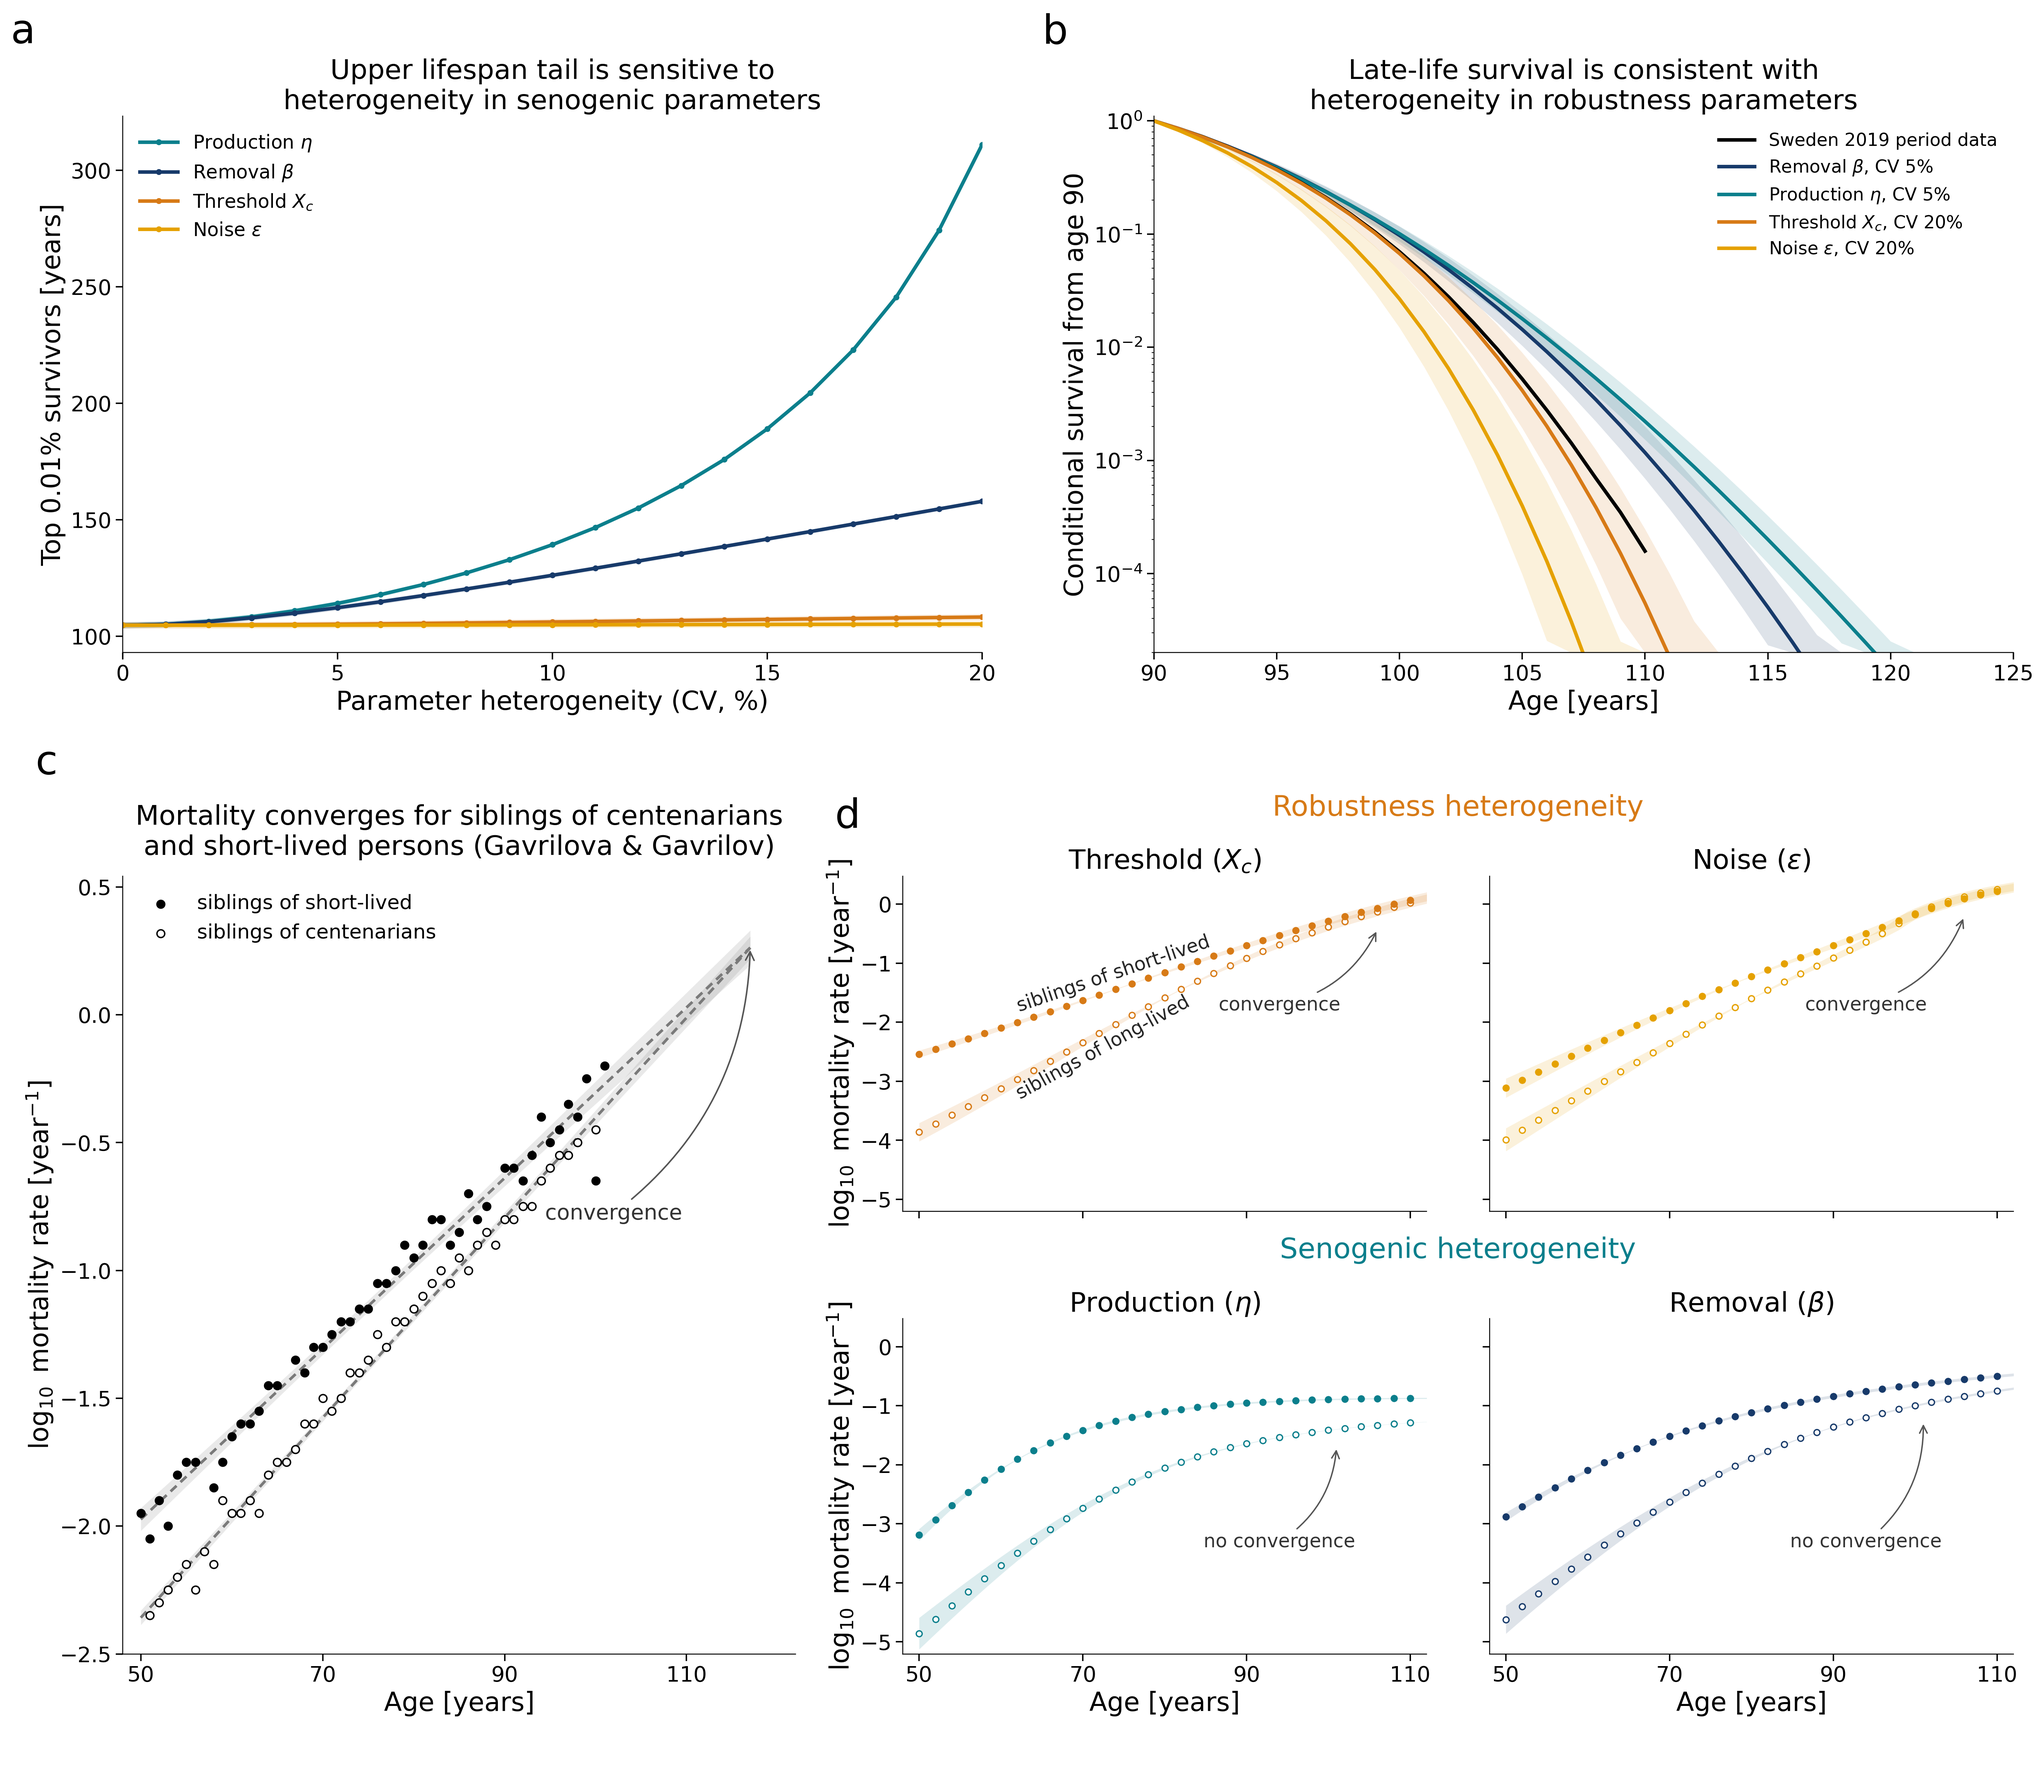
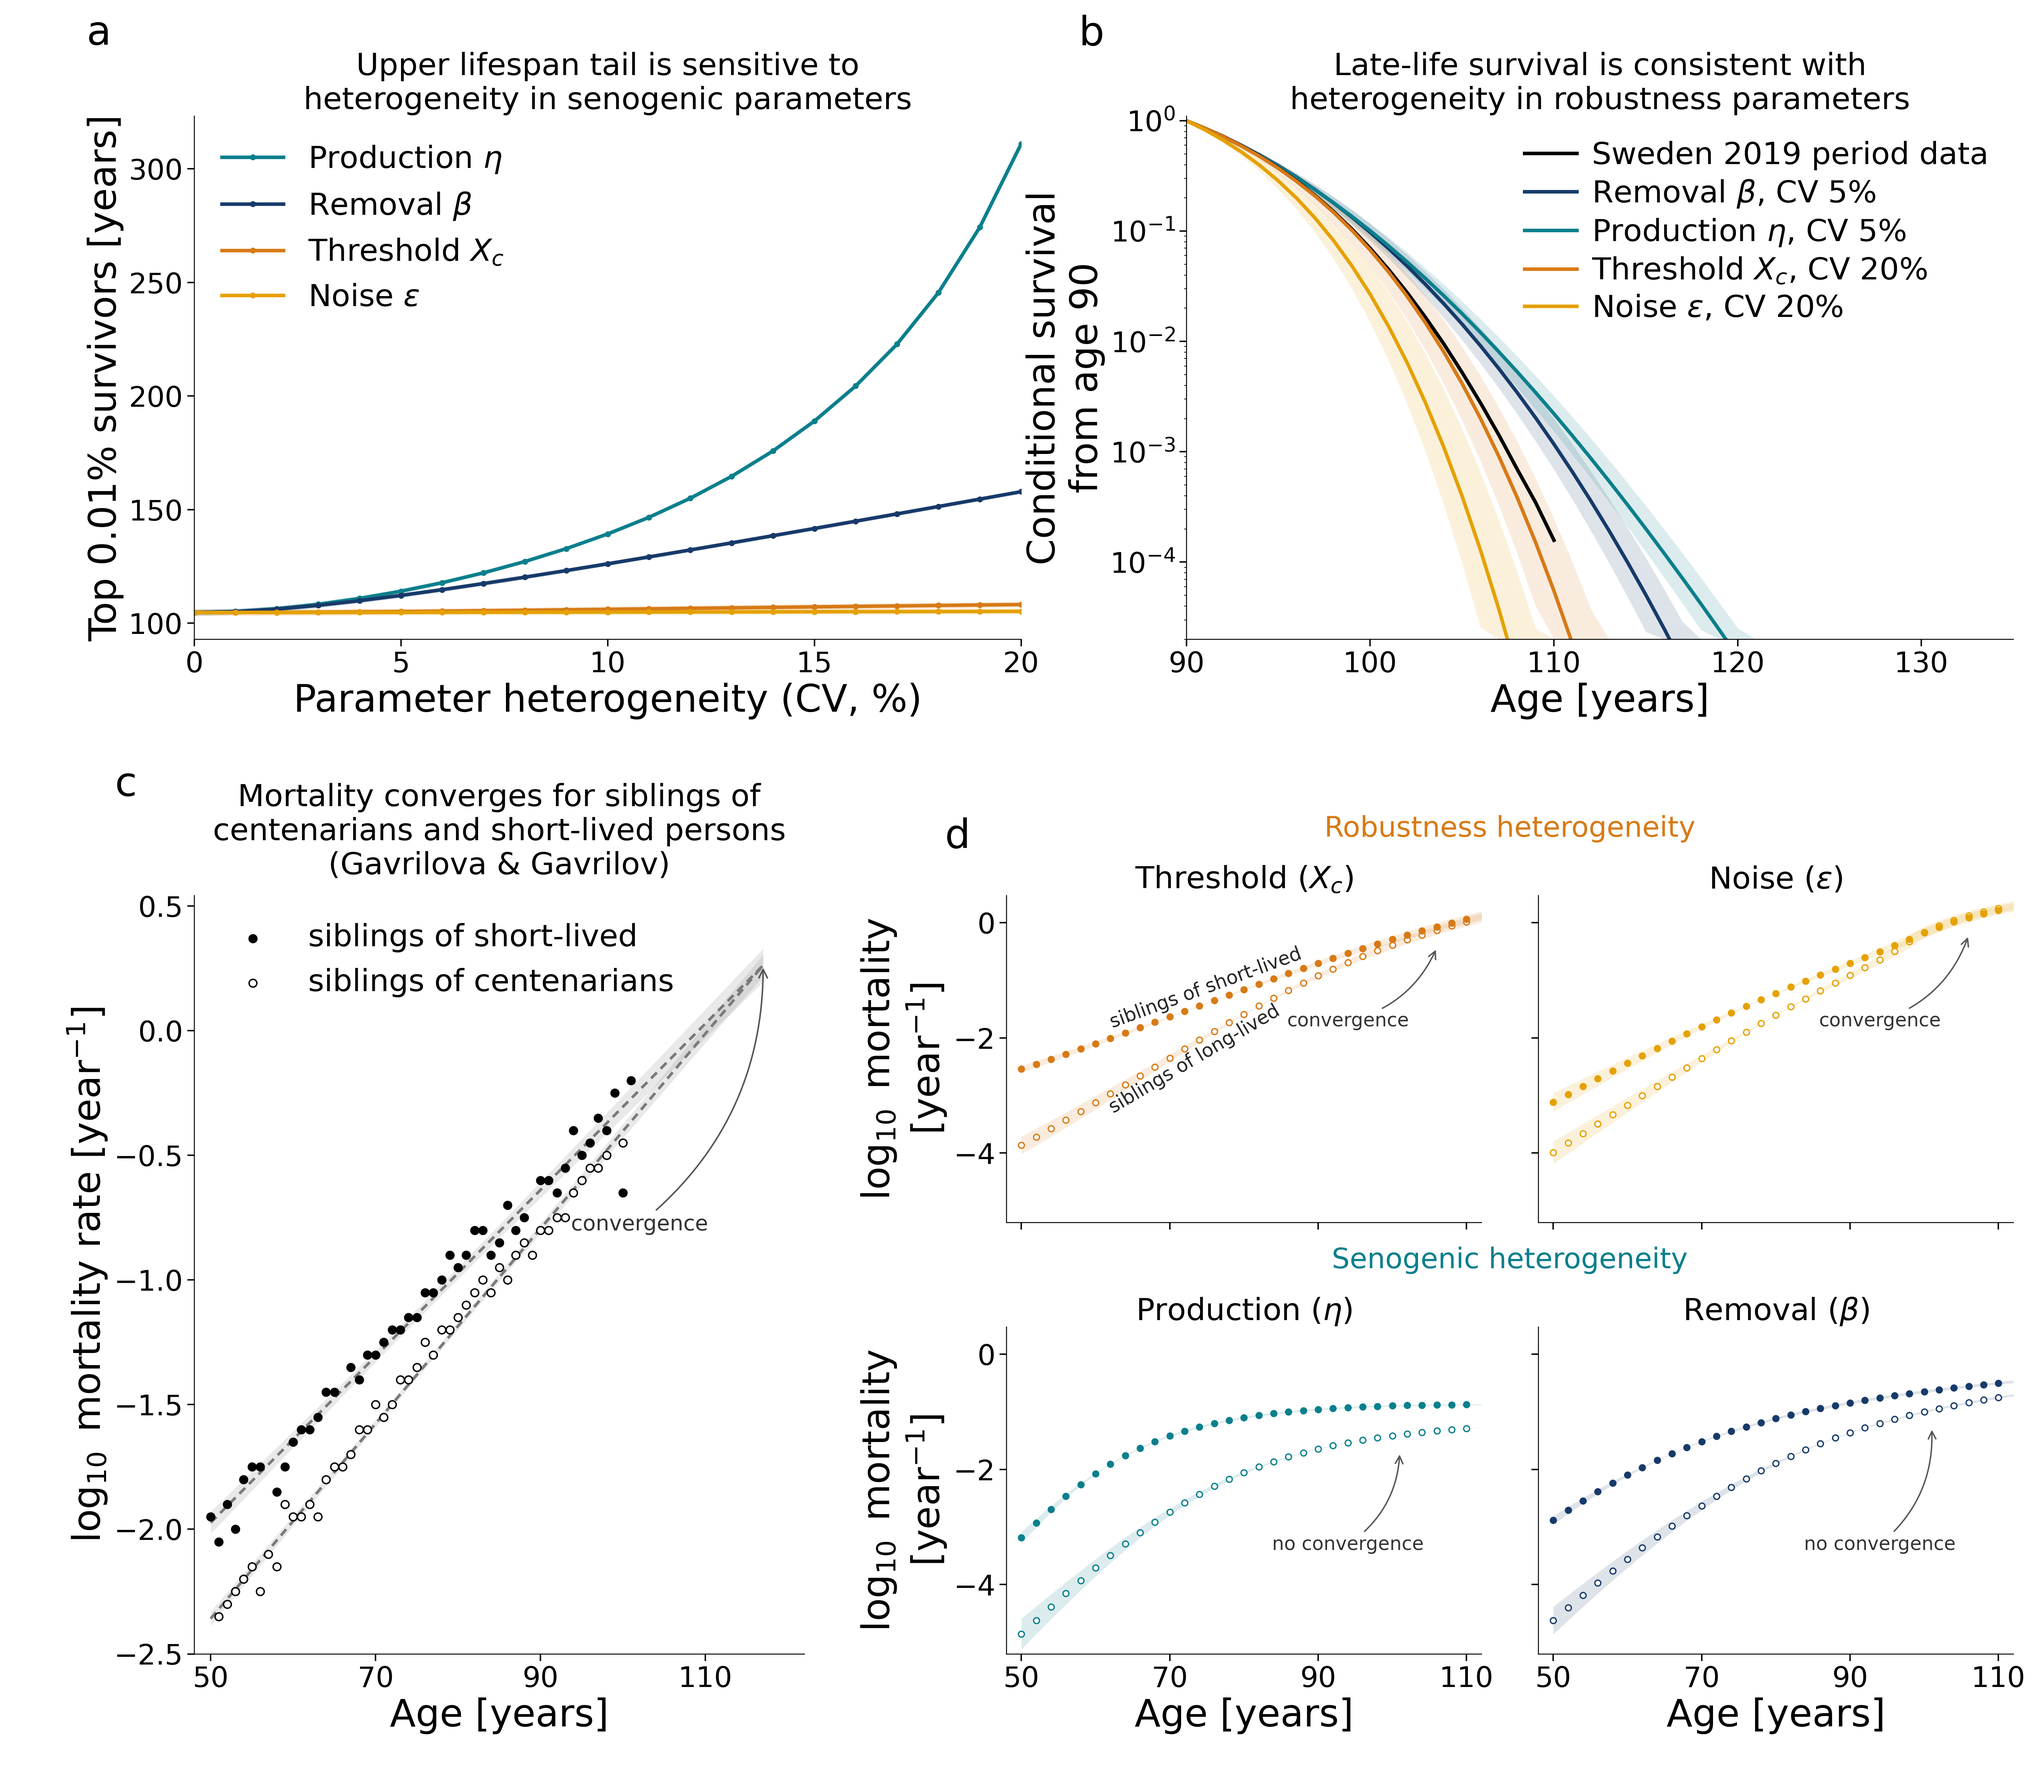
Enlarge Figure 2 typography and clear legend space

diff --git a/analysis/figures/figure2/plot_fig2_fp.py b/analysis/figures/figure2/plot_fig2_fp.py
@@ -104,8 +104,8 @@ def _draw_empirical(ax: plt.Axes) -> None:
     ax.set(xlim=(48, intersection+5), ylim=(-2.5, max(0, fits[0][0]*intersection+fits[0][1]+.28)),
            xlabel='Age [years]', ylabel=r'$\log_{10}$ mortality rate [year$^{-1}$]')
     ax.set_xticks([50, 70, 90, 110])
-    ax.legend(loc='upper left', fontsize=17, frameon=False)
-    ax.set_title('Mortality converges for siblings of centenarians\nand short-lived persons (Gavrilova & Gavrilov)', pad=18)
+    ax.legend(loc='upper left', fontsize=26, frameon=False)
+    ax.set_title('Mortality converges for siblings of\ncentenarians and short-lived persons\n(Gavrilova & Gavrilov)', pad=18)
     target = (intersection, fits[0][0]*intersection + fits[0][1])
     ax.annotate('convergence', xy=target, xytext=(102, -.8),
                 fontsize=18, color='#333333', ha='center',
@@ -141,14 +141,16 @@ def _draw_survival(a, tables):
         _band(a, group, group.age, color, floor=2e-5)
         a.plot(group.age, y, color=color, lw=3, label=label)
     entry = int(tables['survival'].age.min())
-    a.set(yscale='log', xlim=(entry, 125), ylim=(2e-5, 1.1), xlabel='Age [years]',
-          ylabel=f'Conditional survival from age {entry}',
+    a.set(yscale='log', xlim=(entry, 135), xticks=[90, 100, 110, 120, 130],
+          ylim=(2e-5, 1.1), xlabel='Age [years]',
+          ylabel=f'Conditional survival\nfrom age {entry}',
           title='Late-life survival is consistent with\nheterogeneity in robustness parameters')
     handles, labels = a.get_legend_handles_labels()
     order = sorted(range(len(labels)), key=lambda i: 0 if labels[i].startswith('Sweden') else 1)
     a.legend([handles[i] for i in order], [labels[i] for i in order],
              loc='upper right', frameon=True, facecolor='white',
-             edgecolor='none', framealpha=.94, fontsize=15)
+             edgecolor='none', framealpha=.94, fontsize=26,
+             labelspacing=.25, borderpad=.3, handlelength=1.7, handletextpad=.5)
 
 
 def _draw_tail(ax, tables, name):
@@ -196,7 +198,7 @@ def _draw_siblings(d, axes, tables):
         if i >= 2:
             ax.set_xlabel('Age [years]')
         if i % 2 == 0:
-            ax.set_ylabel(r'$\log_{10}$ mortality rate [year$^{-1}$]')
+            ax.set_ylabel(r'$\log_{10}$ mortality' + '\n' + r'[year$^{-1}$]')
     for ax in axes:
         ax.set_ylim(lo-.08, hi+.15)
     axes[0].text(1.06, 1.18, 'Robustness heterogeneity', transform=axes[0].transAxes,
@@ -236,7 +238,7 @@ def _draw_siblings(d, axes, tables):
 
 
 def _sibling_axes(fig, slot):
-    bottom = slot.subgridspec(1, 2, width_ratios=[1, 1.65], wspace=.12)
+    bottom = slot.subgridspec(1, 2, width_ratios=[1, 1.65], wspace=.25)
     d = fig.add_subplot(bottom[0, 0])
     right = bottom[0, 1].subgridspec(2, 2, hspace=.32, wspace=.12)
     axes = [fig.add_subplot(right[i//2, i%2]) for i in range(4)]
@@ -265,17 +267,17 @@ def render(data_dir: Path, output_dir: Path, pdf: bool = False, panels: bool = F
     tables = _read_inputs(Path(data_dir))
     output_dir = Path(output_dir)
     output_dir.mkdir(parents=True, exist_ok=True)
-    settings = {'font.family': 'DejaVu Sans', 'font.size': 20, 'axes.labelsize': 22,
-                'axes.titlesize': 23, 'xtick.labelsize': 18, 'ytick.labelsize': 18,
-                'legend.fontsize': 16, 'pdf.fonttype': 42, 'ps.fonttype': 42,
+    settings = {'font.family': 'DejaVu Sans', 'font.size': 20, 'axes.labelsize': 32,
+                'axes.titlesize': 26, 'xtick.labelsize': 24, 'ytick.labelsize': 24,
+                'legend.fontsize': 26, 'pdf.fonttype': 42, 'ps.fonttype': 42,
                 'svg.fonttype': 'none'}
     drawers = [lambda ax: _draw_tail(ax, tables, 'tails_cv'),
                lambda ax: _draw_survival(ax, tables)]
     with mpl.rc_context(settings):
         fig = plt.figure(figsize=(24, 21))
         try:
-            outer = fig.add_gridspec(2, 1, height_ratios=[1, 1.45], hspace=.34,
-                                     left=.06, right=.985, bottom=.075, top=.935)
+            outer = fig.add_gridspec(2, 1, height_ratios=[1, 1.45], hspace=.40,
+                                     left=.095, right=.985, bottom=.075, top=.935)
             top = outer[0].subgridspec(1, 2, wspace=.20)
             for i, (letter, draw) in enumerate(zip('ab', drawers)):
                 ax = fig.add_subplot(top[0, i])
